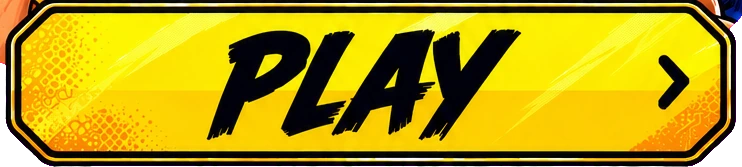
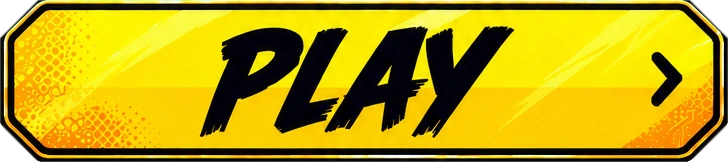
Title screen: one hero, the roaring Indian batter, with burst rays, bolts, halftone and sparkles; a clean PLAY button
Claude-Session: https://claude.ai/code/session_01NK7tbrKg5PdA6fuyEUPXLd

diff --git a/css/style.css b/css/style.css
@@ -331,12 +331,12 @@ button:focus-visible, a:focus-visible, input:focus-visible { outline: 3px solid 
 .title-logo { position: relative; display: block; width: 100%; height: auto; filter: drop-shadow(0 6px 12px rgba(0, 0, 40, .5)); animation: titlepop .7s cubic-bezier(.2, 1.4, .4, 1) both; }
 /* a slow shine crosses the lettering, cut to the logo's own shape */
 .title-shine { position: absolute; inset: 0; -webkit-mask: url(../img/menu/title-logo.webp) center / 100% 100% no-repeat; mask: url(../img/menu/title-logo.webp) center / 100% 100% no-repeat; background: linear-gradient(105deg, transparent 38%, rgba(255, 255, 255, .75) 50%, transparent 62%) -140% 0 / 60% 100% no-repeat; animation: titleshine 4.2s ease-in-out 1.2s infinite; mix-blend-mode: overlay; }
-.title-heroes { position: relative; display: block; width: 118%; max-width: none; height: auto; margin-top: -14px; pointer-events: none; -webkit-mask-image: linear-gradient(#000 84%, transparent); mask-image: linear-gradient(#000 84%, transparent); }
+.title-heroes { position: relative; display: block; width: 112%; max-width: none; height: auto; margin-top: -26px; margin-bottom: -34px; pointer-events: none; }
 @keyframes titlefx { 0%, 100% { opacity: .78; } 50% { opacity: 1; } }
 @keyframes titlepop { from { transform: scale(.86); opacity: 0; } to { transform: none; opacity: 1; } }
 @keyframes titleshine { 0%, 55% { background-position: -140% 0; } 100% { background-position: 240% 0; } }
 @media (prefers-reduced-motion: reduce) { .title-fx, .title-logo, .title-shine { animation: none; } }
-.title-play { position: relative; display: block; width: 94%; margin-top: -30px; padding: 0; border: 0; background: none; filter: drop-shadow(0 5px 8px rgba(0, 0, 30, .6)); }
+.title-play { position: relative; display: block; width: 94%; margin-top: 0; padding: 0; border: 0; background: none; filter: drop-shadow(0 5px 8px rgba(0, 0, 30, .6)); }
 .title-play img { display: block; width: 100%; height: auto; }
 .title-play:active { transform: translate(1px, 2px); }
 .title-tunnel { position: absolute; z-index: 0; left: 0; bottom: 0; width: 100%; height: auto; pointer-events: none; -webkit-mask-image: linear-gradient(transparent, #000 28%); mask-image: linear-gradient(transparent, #000 28%); }

diff --git a/index.html b/index.html
@@ -93,8 +93,8 @@
         <img class="title-logo" src="img/menu/title-logo.webp" alt="Sixcharge" width="900" height="458">
         <i class="title-shine" aria-hidden="true"></i>
       </div>
-      <img class="title-heroes" src="img/menu/title-heroes.webp" alt="" width="571" height="445">
-      <button id="tPlay" class="title-play" aria-label="Play"><img src="img/menu/title-play.webp" alt="Play" width="742" height="167"></button>
+      <img class="title-heroes" src="img/menu/title-heroes.webp" alt="" width="1000" height="820">
+      <button id="tPlay" class="title-play" aria-label="Play"><img src="img/menu/title-play.webp" alt="Play" width="728" height="162"></button>
       </div>
     </div>
     <img class="title-tunnel" src="img/menu/title-tunnel.webp" alt="" aria-hidden="true">
